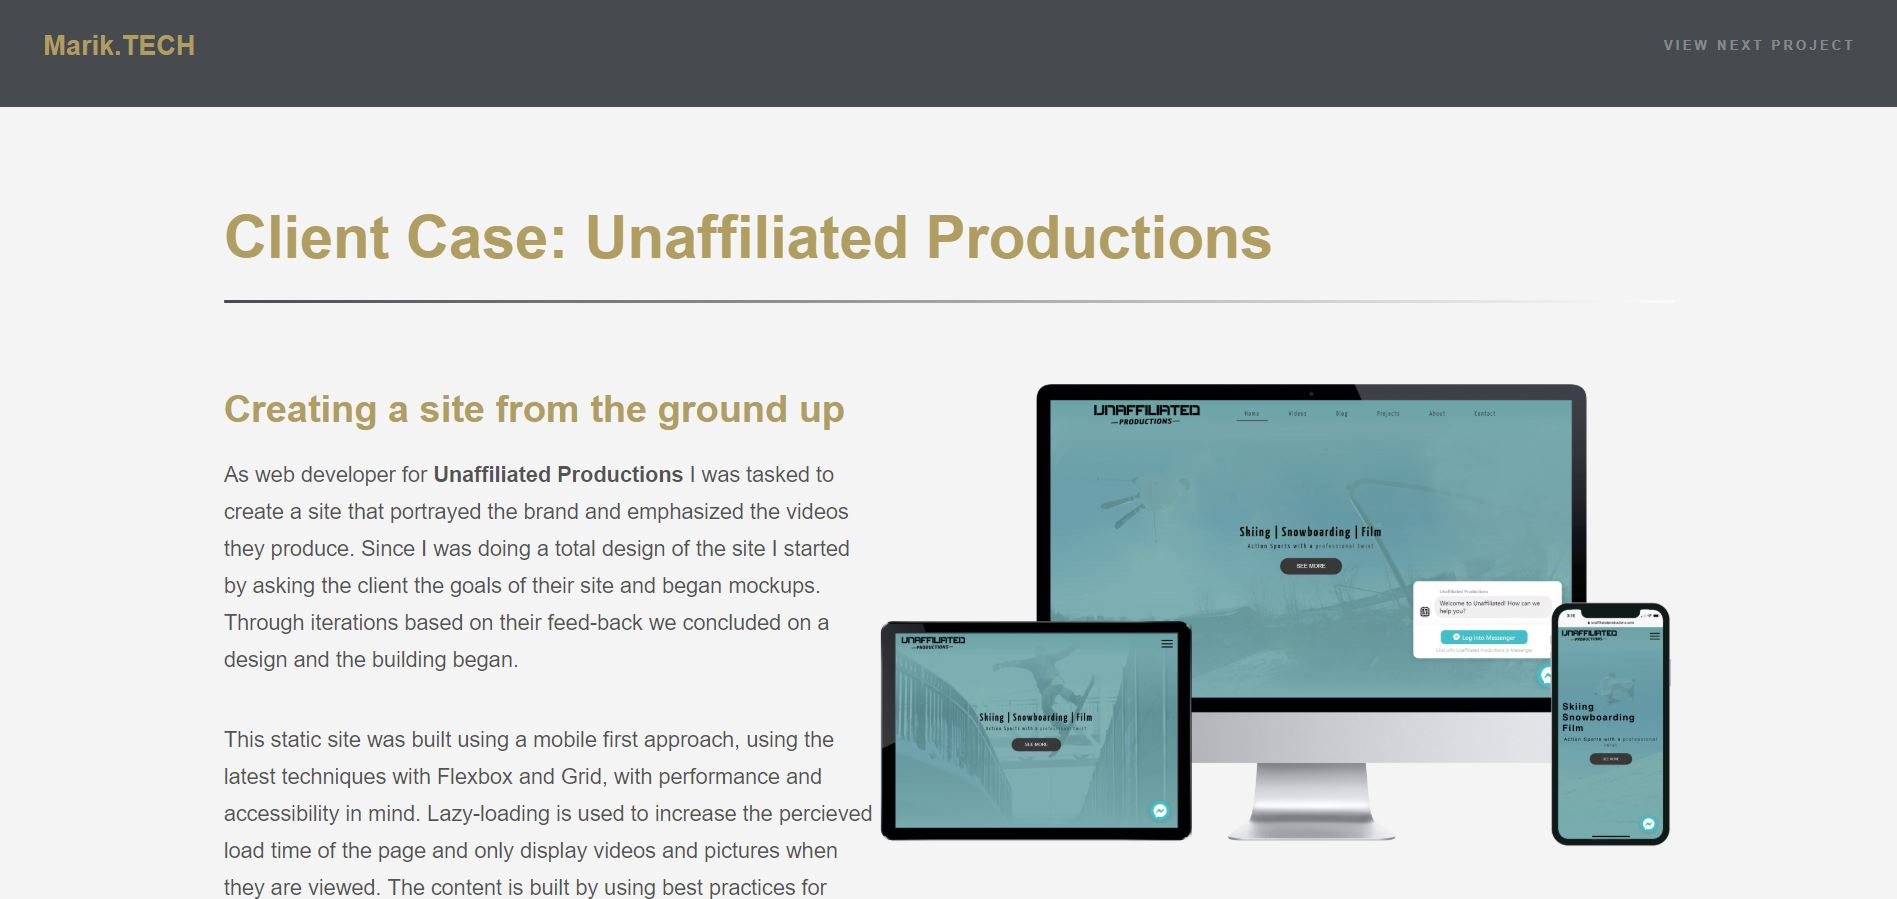
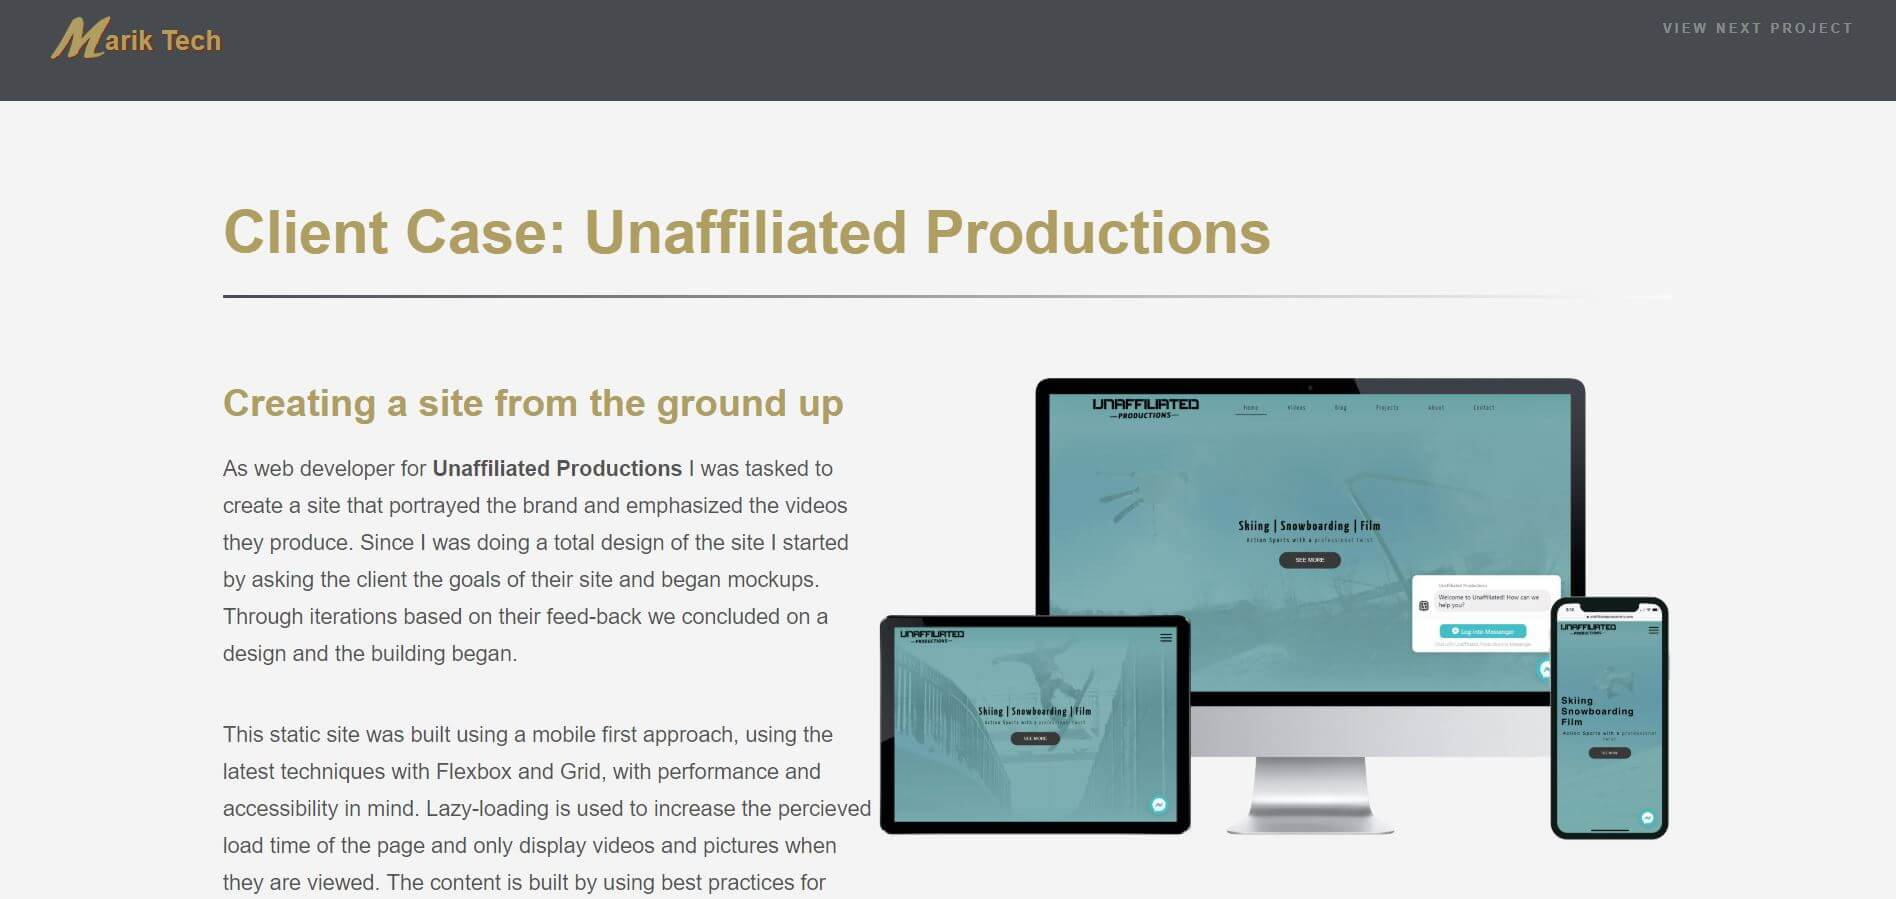
improved audits; updated sw

diff --git a/case_one.html b/case_one.html
@@ -1,10 +1,10 @@
 <!DOCTYPE HTML>
 
-<html>
+<html lang="en">
 	<head>
 		<title>MARIK | Portfolio</title>
 		<meta charset="utf-8" />
-		<meta name="viewport" content="width=device-width, initial-scale=1, user-scalable=no" />
+		<meta name="viewport" content="width=device-width, initial-scale=1, maximum-scale=5" />
 		<meta name="description" content="Web Development and Marketing Solutions" />
 		<meta name="keywords" content="web development, web design, online marketing, website help, make website, freelance web developer, website consultation, sales copy, consultation" />
 	
@@ -21,7 +21,7 @@
 		<meta property="og:title" content="MARIK | Portfolio">
 		<meta property="og:description" content="Web Development and Marketing Solutions">
 		<meta property="og:image" content="./images/thumbnailCase1.JPG">
-		<meta property="og:url" content="https://practical-meninsky-cd12df.netlify.com/case_one.html">
+		<meta property="og:url" content="https://www.marik.tech/case_one.html">
 
 		<link rel="prefetch" href="/images/daymakerTemplate.png" as="image">
 
@@ -38,11 +38,11 @@
 			<header id="header"> 
 			
 				
-				<a href="index.html" class="title case-shadow"><span class="m-logo-case"><img src="images/marik.tech_logo.png" width="50px"></span>arik Tech</a>
+				<a href="index.html" class="title case-shadow"><span class="m-logo-case"><img src="images/marik.tech_logo.png" alt="Marik Tech Logo" width="50px"></span>arik Tech</a>
 			
 				<nav>
 					<ul>
-						<li><a href="./case_two.html" class="trans nxt">View Next Project</a></li>
+						<li><a href="./case_two.html" class="nxt">View Next Project</a></li>
 						
 					</ul>
 				</nav>
@@ -55,9 +55,9 @@
 					<section id="main" class="wrapper">
 						<div class="inner">
 							<h1 class="major">Client Case: Unaffiliated Productions</h1>
-							<span class="image fit"><img src="images/unaffiliatedTemplate.png" alt="" /></span>
+							<span class="image fit"><img src="images/unaffiliatedTemplate.png" alt="Unaffiliated Productions Site Overview" /></span>
 							<h2>Creating a site from the ground up</h2>
-							<p>As web developer for <a href="https://unaffiliatedproductions.com/" target="_blank">Unaffiliated Productions</a> I was tasked to create a site that portrayed the brand and emphasized the videos they produce. Since I was doing a total design of the site I started by asking the client the goals of their site and began mockups. Through iterations based on their feed-back we concluded on a design and the building began.</p>
+							<p>As web developer for <a href="https://unaffiliatedproductions.com/" target="_blank" rel="noopener" rel="noreferrer">Unaffiliated Productions</a> I was tasked to create a site that portrayed the brand and emphasized the videos they produce. Since I was doing a total design of the site I started by asking the client the goals of their site and began mockups. Through iterations based on their feed-back we concluded on a design and the building began.</p>
 							<p>This static site was built using a mobile first approach, using the latest techniques with Flexbox and Grid, with performance and accessibility in mind. Lazy-loading is used to increase the percieved load time of the page and only display videos and pictures when they are viewed. The content is built by using best practices for SEO provided by Google. Finally, after completion, the site was checked for performance using auditing tools to make final tweaks to the pages. </p>
 							<p>The final site was delivered to the client and quality was ensured by referencing any prior expectations set for the site. This site now serves as the main public stage for Unaffiliated and their customers and helps solidify their brand name.</p>
 							<h3>Want help with your website? Looking to hire?</h3>
@@ -75,10 +75,10 @@
 						<li>
                                
 							<ul class="icons">
-								<li><a href="https://github.com/pmarik" target="_blank" class="fa-github"><span class="label">GitHub</span></a></li>
+								<li><a href="https://github.com/pmarik" target="_blank" rel="noopener" rel="noreferrer" class="fa-github"><span class="label">GitHub</span></a></li>
 								<!-- <li><a href="#" class="fa-instagram"><span class="label">Instagram</span></a></li> -->
-								<li><a href="https://www.linkedin.com/in/paul-marik-980b46109/" target="_blank" class="fa-linkedin"><span class="label">LinkedIn</span></a></li>
-								<li><a href="https://codepen.io/codingforthefuture/" target="_blank" class="fa-codepen"><span class="label">CodePen</span></a></li>
+								<li><a href="https://www.linkedin.com/in/paul-marik-980b46109/" target="_blank" rel="noopener" rel="noreferrer" class="fa-linkedin"><span class="label">LinkedIn</span></a></li>
+								<li><a href="https://codepen.io/codingforthefuture/" target="_blank" rel="noopener" rel="noreferrer" class="fa-codepen"><span class="label">CodePen</span></a></li>
 								<li><a href="mailto:paul@marik.tech" class="fa-envelope"><span class="label">Envelope</span></a></li>
 							</ul>
 						</li>

diff --git a/index.html b/index.html
@@ -1,11 +1,11 @@
 <!DOCTYPE HTML>
 
-<html>
+<html lang="en">
 
 <head>
     <title>MARIK | Portfolio</title>
     <meta charset="utf-8" />
-    <meta name="viewport" content="width=device-width, initial-scale=1, user-scalable=no" />
+    <meta name="viewport" content="width=device-width, initial-scale=1, maximum-scale=5" />
     <meta name="description" content="Web Development and Marketing Solutions" />
     <meta name="keywords" content="web development, web design, online marketing, website help, make website, freelance web developer, website consultation, sales copy, consultation" />
     
@@ -22,7 +22,7 @@
     <meta property="og:title" content="MARIK | Portfolio">
     <meta property="og:description" content="Web Development and Marketing Solutions">
     <meta property="og:image" content="./images/thumbnailHome.JPG">
-    <meta property="og:url" content="https://practical-meninsky-cd12df.netlify.com">
+    <meta property="og:url" content="https://www.marik.tech/">
 
     <!-- asset prefetch -->
 	<link rel="prefetch" href="images/unaffiliatedHomeBlur.jpg" as="image">
@@ -60,7 +60,7 @@
         <section id="intro" class="wrapper style1 fullscreen fade-up">
             <div class="inner">
                 <div class="swing">
-                <span class="m-logo"><img src="images/marik.tech_logo.png" width="100em"></span>
+                <span class="m-logo"><img src="images/marik.tech_logo.png"  alt="Marik Tech Logo" width="100em"></span>
                 <h1>arik Tech</h1>
                 </div>
                  
@@ -116,13 +116,13 @@
                         <h2 class="swing">Unaffiliated Productions</h2>
                         <p>Live production site built from scratch. Developed with speed, accessibility, and SEO in mind to drive views and establish credibility...</p>
                         <ul class="actions">
-                            <li><a href="/case_one.html" class="button trans">View full case</a></li>
+                            <li><a href="/case_one.html" class="button">View full case</a></li>
                         </ul>
                     </div>
                 </div>
                  <div class="sectionimg">
                     <a href="./case_one.html"><div class="centered"> View Project</div></a>
-                    <a href="./case_one.html"><img src="images/unaffiliatedHome.jpg" /></a>
+                    <a href="./case_one.html"><img src="images/unaffiliatedHome.jpg" alt="Unaffiliated Productions | Client Case" /></a>
                 
                 </div> 
             
@@ -131,7 +131,7 @@
             <section>
                 <div class="sectionimg">
                         <a href="./case_two.html"><div class="centered"> View Project</div></a>
-                        <a href="./case_two.html"><img src="images/daymakerHome.JPG" /></a>
+                        <a href="./case_two.html"><img src="images/daymakerHome.JPG" alt="Daymaker Touring | Client Case" /></a>
                         
                 </div> 
                 <div class="content">
@@ -139,7 +139,7 @@
                         <h2 class="swing">Daymaker Touring</h2>
                         <p>Frontend consultation to improve site flow and call-to-action to increase conversions... </p>
                         <ul class="actions">
-                            <li><a href="./case_two.html" class="button trans">View full case</a></li>
+                            <li><a href="./case_two.html" class="button">View full case</a></li>
                         </ul>
                     </div> 
                 </div>
@@ -195,10 +195,10 @@
                             <li>
                                
                                 <ul class="icons">
-                                    <li><a href="https://github.com/pmarik" target="_blank" class="fa-github"><span class="label">GitHub</span></a></li>
+                                    <li><a href="https://github.com/pmarik" target="_blank" rel="noopener" rel="noreferrer" class="fa-github"><span class="label">GitHub</span></a></li>
 								<!-- <li><a href="#" class="fa-instagram"><span class="label">Instagram</span></a></li> -->
-								<li><a href="https://www.linkedin.com/in/paul-marik-980b46109/" target="_blank" class="fa-linkedin"><span class="label">LinkedIn</span></a></li>
-								<li><a href="https://codepen.io/codingforthefuture/" target="_blank" class="fa-codepen"><span class="label">CodePen</span></a></li>
+								<li><a href="https://www.linkedin.com/in/paul-marik-980b46109/" target="_blank" rel="noopener" rel="noreferrer" class="fa-linkedin"><span class="label">LinkedIn</span></a></li>
+								<li><a href="https://codepen.io/codingforthefuture/" target="_blank" rel="noopener" rel="noreferrer" class="fa-codepen"><span class="label">CodePen</span></a></li>
 								<li><a href="mailto:paul@marik.tech" class="fa-envelope"><span class="label">Envelope</span></a></li>
                                 </ul>
                             </li>

diff --git a/case_two.html b/case_two.html
@@ -1,10 +1,10 @@
 <!DOCTYPE HTML>
 
-<html>
+<html lang="en">
 	<head>
 		<title>Marik | Portfolio</title>
 		<meta charset="utf-8" />
-		<meta name="viewport" content="width=device-width, initial-scale=1, user-scalable=no" />
+		<meta name="viewport" content="width=device-width, initial-scale=1, maximum-scale=5" />
 		<meta name="description" content="Web Development and Marketing Solutions" />
 		<meta name="keywords" content="web development, web design, online marketing, website help, make website, freelance web developer, website consultation, sales copy, consultation" />
 	
@@ -21,7 +21,7 @@
 		<meta property="og:title" content="MARIK | Portfolio">
 		<meta property="og:description" content="Web Development and Marketing Solutions">
 		<meta property="og:image" content="./images/thumbnailCase2.JPG">
-		<meta property="og:url" content="https://practical-meninsky-cd12df.netlify.com/case_two.html">
+		<meta property="og:url" content="https://www.marik.tech/case_two.html">
 
 		<link rel="prefetch" href="/images/unaffiliatedTemplate.png" as="image">
 
@@ -36,10 +36,10 @@
 		<!-- Header -->
 			<header id="header"> 
 				
-				<a href="index.html" class="title case-shadow"><span class="m-logo-case"><img src="images/marik.tech_logo.png" width="50px"></span>arik Tech</a>
+				<a href="index.html" class="title case-shadow"><span class="m-logo-case"><img src="images/marik.tech_logo.png"  alt="Marik Tech Logo" width="50px"></span>arik Tech</a>
 				<nav>
 					<ul>
-						<li><a href="./case_one.html" class="trans nxt">View Next Project</a></li>
+						<li><a href="./case_one.html" class="nxt">View Next Project</a></li>
 						
 					</ul>
 				</nav>
@@ -52,13 +52,13 @@
 					<section id="main" class="wrapper">
 						<div class="inner">
 							<h1 class="major">Client Case: Daymaker Touring</h1>
-							<span class="image fit"><img src="images/daymakerTemplate.png" alt="" /></span>
+							<span class="image fit"><img src="images/daymakerTemplate.png" alt="Daymaker Touring Site Overview" /></span>
 							<h2>Frontend consultation to drive sales</h2>
-							<p><a href="https://www.daymakertouring.com/collections/store/products/alpine-touring-adapters" target="_blank">Daymaker Touring</a> needed updates to their product page and required minor changes to site design. This provided me with an opportunity to ajust the flow of the project page and to include a call-to-action for each section.</p>
+							<p><a href="https://www.daymakertouring.com/collections/store/products/alpine-touring-adapters" target="_blank" rel="noopener" rel="noreferrer">Daymaker Touring</a> needed updates to their product page and required minor changes to site design. This provided me with an opportunity to ajust the flow of the project page and to include a call-to-action for each section.</p>
 							<p>This client hosted on Shopify and gave me the opportunity to work with this content management system. The Shopify template language is Liquid which exposed me to a new kind of development environment that I had to quickly learn. No charges were handed over to the client for this chance to learn the new technology.</p>
 							<p>Since this client is local I was able to meet with them in person and establish trust in the work. We reviewed their goals and what would be the best way to accomplish them. Finally, I set to work with milestones that were delivered to the client after completion.</p>
 							<h3>Want help with your website? Looking to hire?</h3>
-							<a href="/index.html#three" class="button trans">Let's get in touch</a>
+							<a href="/index.html#three" class="button">Let's get in touch</a>
 						</div>
 					</section>
 
@@ -72,10 +72,10 @@
 						<li>
                                
 							<ul class="icons">
-								<li><a href="https://github.com/pmarik" target="_blank" class="fa-github"><span class="label">GitHub</span></a></li>
+								<li><a href="https://github.com/pmarik" target="_blank" rel="noopener" rel="noreferrer" class="fa-github"><span class="label">GitHub</span></a></li>
 								<!-- <li><a href="#" class="fa-instagram"><span class="label">Instagram</span></a></li> -->
-								<li><a href="https://www.linkedin.com/in/paul-marik-980b46109/" target="_blank" class="fa-linkedin"><span class="label">LinkedIn</span></a></li>
-								<li><a href="https://codepen.io/codingforthefuture/" target="_blank" class="fa-codepen"><span class="label">CodePen</span></a></li>
+								<li><a href="https://www.linkedin.com/in/paul-marik-980b46109/" target="_blank" rel="noopener" rel="noreferrer" class="fa-linkedin"><span class="label">LinkedIn</span></a></li>
+								<li><a href="https://codepen.io/codingforthefuture/" target="_blank" rel="noopener" rel="noreferrer" class="fa-codepen"><span class="label">CodePen</span></a></li>
 								<li><a href="mailto:paul@marik.tech" class="fa-envelope"><span class="label">Envelope</span></a></li>
 							</ul>
 						</li>

diff --git a/sw_cached_pages.js b/sw_cached_pages.js
@@ -17,12 +17,13 @@ const cacheAssets = [
     'assets/css/noscript.css',
     'assets/css/font-awesome.min.css',
     'images/daymakerHome.JPG',
-    'images/daymakerHomeBlur.jpg',
     'images/daymakerTemplate.png',
     'images/unaffiliatedHome.JPG',
-    'images/unaffiliatedHomeBlur.jpg',
     'images/unaffiliatedTemplate.png',
-    'images/marik.tech_logo.png'
+    'images/marik.tech_logo.png',
+    'assets/css/images/intro.svg',
+    'images/favicon.ico',
+    'images/m-loader-opt.gif'
 ];
 
 // Call Install Event

diff --git a/assets/sass/main.scss b/assets/sass/main.scss
@@ -75,18 +75,9 @@
         margin:-25px 0 0; /* negative fixed header height */
         visibility: hidden;
       }
-    //display: none;
-    // .anchor{
-    //     display: block;
-    //     position: relative;
-    //     top: -3em;
-    //     visibility: hidden;
-    // }
-}
-@include breakpoint('<=xsmall') {
-    //display: none;
     
 }
+
 
 @media only screen and (min-width: 1000px){
 	#three{
